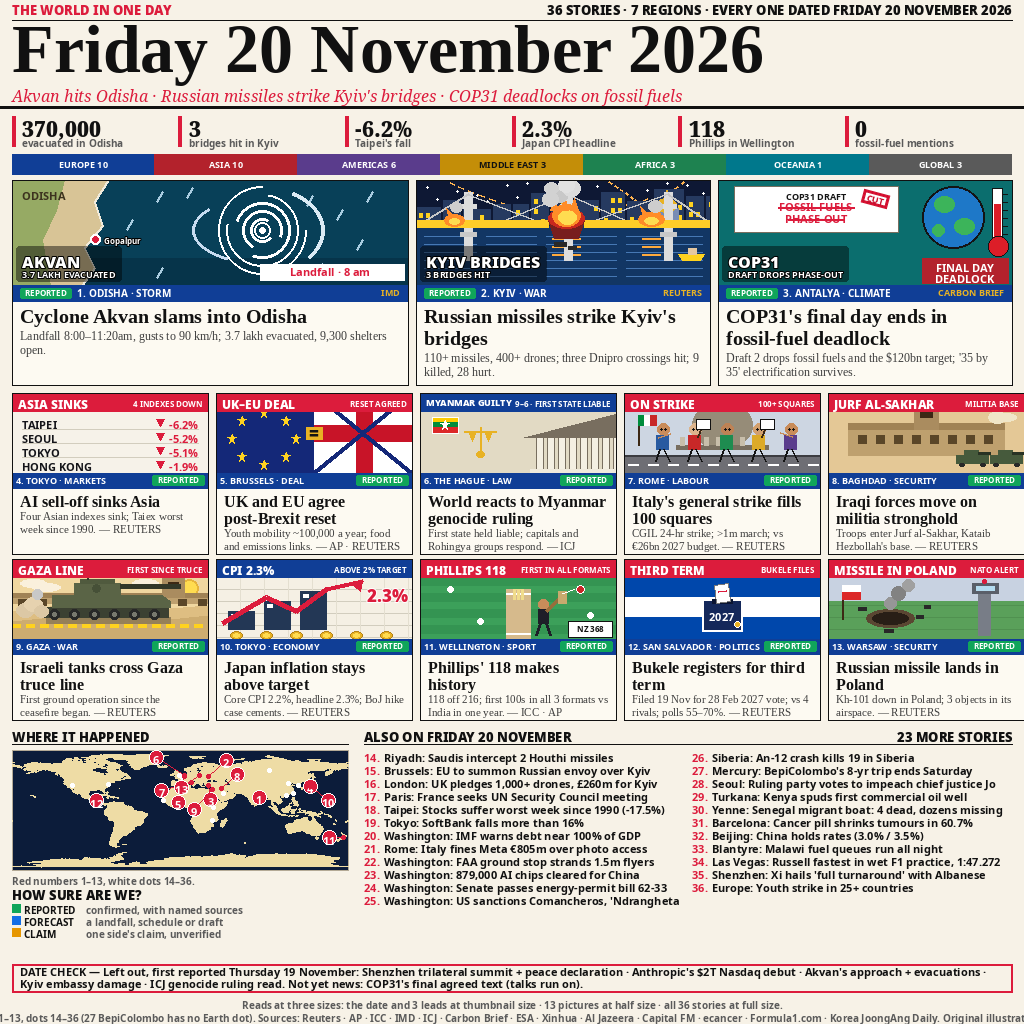
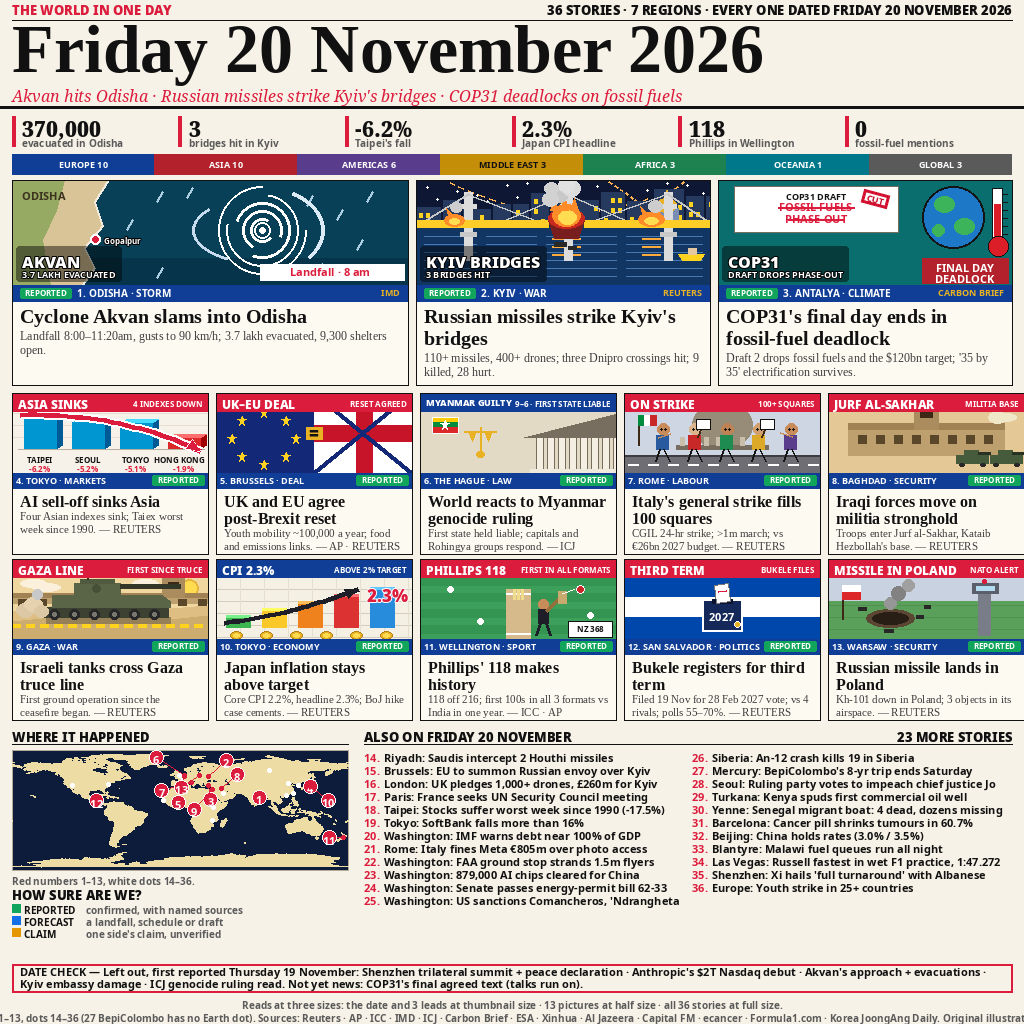
v5.1: 3D falling bars + curved arrow; rainbow rising bars + curved arrow

Changed region(s): [[0.0, 0.4062, 0.2188, 0.4688], [0.2188, 0.5625, 0.4062, 0.625]]

diff --git a/draw.py b/draw.py
@@ -591,27 +591,56 @@ def art_image(key, w, h):
                       fill=GOLD)
         d.ellipse([56, 58, 64, 64], fill=GOLD)
     elif key == "selloff":
-        # v5: the 4-index table the top entries use — Friday closes, all
-        # down, with a red down-triangle before each value. The old five
-        # navy bars + red zigzag (v3.5, per the user's image 2) are gone;
-        # the deck carries the "worst week since 1990" line. Art is 196x80
-        # with the solid banner over y0-18, so rows start at y24.
-        # Original PIL vector code.
+        # v5.1: per the user's new reference (3D blue bars + one thick
+        # red curved arrow swooping down) — the v5 4-row index table is
+        # gone. Same verified Friday data: Taipei -6.2, Seoul -5.2,
+        # Tokyo -5.1, Hong Kong -1.9 (tallest to shortest, last bar red).
+        # Art is 196x80 with the solid banner over y0-18; bars sit on
+        # baseline y56, names + values in two lines below. The arrow is
+        # drawn over the bars with a white halo so it reads on the blue
+        # and on the red last bar; its head ends just under the baseline,
+        # clear of the labels. Original PIL vector code.
         d.rectangle([0, 0, w, h], fill=(246, 242, 233))
-        rows = (("TAIPEI", "-6.2%"), ("SEOUL", "-5.2%"),
-                ("TOKYO", "-5.1%"), ("HONG KONG", "-1.9%"))
-        for i, (name, val) in enumerate(rows):
-            ry = 24 + i * 14
-            d.text((10, ry), name, font=F_ART2_S, fill=(20, 20, 25))
-            vw = d.textlength(val, font=F_ART2_S)
-            # red down-triangle just left of the value
-            tx = w - 10 - vw - 12
-            d.polygon([(tx, ry + 2), (tx + 8, ry + 2), (tx + 4, ry + 9)],
-                      fill=RED)
-            d.text((w - 10, ry), val, font=F_ART2_S, fill=RED, anchor="ra")
-            if i < 3:
-                d.line([10, ry + 12, w - 10, ry + 12],
-                       fill=(210, 205, 190), width=1)
+        for gy in range(20, 56, 12):
+            d.line([0, gy, w, gy], fill=(228, 223, 208), width=1)
+        base = 56
+        bars = (("TAIPEI", "-6.2%", 32, (0, 150, 210)),
+                ("SEOUL", "-5.2%", 27, (0, 150, 210)),
+                ("TOKYO", "-5.1%", 26, (0, 150, 210)),
+                ("HONG KONG", "-1.9%", 11, (220, 40, 40)))
+        # 3D look: lighter top face + darker right side face per bar
+        for i, (name, val, bh, col) in enumerate(bars):
+            bx = 12 + i * 48
+            top = base - bh
+            light = tuple(min(255, c + 70) for c in col)
+            dark = tuple(max(0, c - 60) for c in col)
+            d.polygon([(bx + 32, top), (bx + 38, top - 4), (bx + 38, base - 4),
+                       (bx + 32, base)], fill=dark)
+            d.polygon([(bx, top), (bx + 6, top - 4), (bx + 38, top - 4),
+                       (bx + 32, top)], fill=light)
+            d.rectangle([bx, top, bx + 32, base], fill=col)
+        d.line([6, base, w - 4, base], fill=(180, 175, 160), width=1)
+        # one thick red curved arrow swooping down from top-left to an
+        # arrowhead at the bottom-right (tip 188,58)
+        pts = []
+        for ti in range(26):
+            t = ti / 25
+            qx = int((1 - t) ** 2 * 8 + 2 * (1 - t) * t * 110 + t ** 2 * 188)
+            qy = int((1 - t) ** 2 * 22 + 2 * (1 - t) * t * 20 + t ** 2 * 58)
+            pts.append((qx, qy))
+        d.line(pts, fill="white", width=9, joint="curve")
+        d.line(pts, fill=RED, width=5, joint="curve")
+        d.polygon([(189, 59), (173, 55), (180, 46)], fill="white")
+        d.polygon([(188, 58), (174, 55), (180, 47)], fill=RED)
+        # names + values in two lines under the bars; the last name is
+        # clamped so it clears the right edge ("HONG KONG" is 51px wide)
+        for i, (name, val, bh, col) in enumerate(bars):
+            cx = 12 + i * 48 + 16
+            nw = d.textlength(name, font=F_LBL2_S)
+            cx = min(cx, 192 - nw / 2)
+            d.text((cx, 61), name, font=F_LBL2_S, fill=INK, anchor="ma")
+            d.text((12 + i * 48 + 16, 70), val, font=F_LBL2_S, fill=RED,
+                   anchor="ma")
     elif key == "ukeu":
         # two flags, one deal: EU stars on the left, the Union Jack's cross
         # on the right, a gold link between them. v4: BIGGER flags — wider
@@ -743,25 +772,36 @@ def art_image(key, w, h):
         d.ellipse([22, 46, 36, 58], fill=(220, 200, 165))
         d.ellipse([20, 30, 30, 40], fill=(200, 200, 200))
     elif key == "cpi":
-        # v5: Japan CPI — three ascending navy bars (2.1 / 2.2 / 2.3) on a
-        # light grid, a thick red zigzag arrow rising to the top-right, a
-        # red 2.3% focal, gold coins along the bottom. The old "crash"
-        # branch (desert An-12 wreck) is gone — the crash is also-list 26.
+        # v5.1: per the user's new reference (5 ascending rainbow bars +
+        # one thick dark curved arrow rising) — the v5 navy bars + red
+        # zigzag are gone. Same verified CPI data (core 2.2%, headline
+        # 2.3%). Light card background kept (not the reference's black).
         # Original PIL vector code.
         d.rectangle([0, 0, w, h], fill=(245, 240, 228))
         for gy in range(18, h, 12):
             d.line([0, gy, w, gy], fill=(210, 205, 190), width=1)
         for gx in range(0, w, 24):
             d.line([gx, 18, gx, h], fill=(228, 223, 208), width=1)
-        # three navy bars, baseline y70 — banner covers y0-18
-        for bx, top in ((12, 52), (48, 42), (84, 32)):
-            d.rectangle([bx, top, bx + 26, 70], fill=(35, 55, 85))
-            d.rectangle([bx + 3, top + 3, bx + 8, top + 6], fill="white")
-        # thick red zigzag arrow rising to the top-right
-        d.line([(6, 64), (50, 38), (80, 52), (110, 30), (146, 22)],
-               fill=RED, width=5, joint="curve")
-        d.polygon([(146, 22), (134, 24), (144, 32)], fill=RED)
-        # red 2.3% focal, top-right, clear of the arrowhead (ends x146)
+        # five rainbow bars, ascending left to right, baseline y68
+        cols = ((60, 180, 80), (250, 200, 40), (240, 130, 30),
+                (220, 50, 50), (40, 140, 220))
+        for i, col in enumerate(cols):
+            bx = 10 + i * 36
+            top = 68 - (12 + i * 7)
+            d.rectangle([bx, top, bx + 24, 68], fill=col)
+            light = tuple(min(255, c + 60) for c in col)
+            d.rectangle([bx, top, bx + 24, top + 2], fill=light)
+        # one thick dark curved arrow rising from bottom-left to an
+        # arrowhead at top-right, clear of the 2.3% focal (starts x151)
+        pts = []
+        for ti in range(26):
+            t = ti / 25
+            qx = int((1 - t) ** 2 * 8 + 2 * (1 - t) * t * 70 + t ** 2 * 142)
+            qy = int((1 - t) ** 2 * 64 + 2 * (1 - t) * t * 58 + t ** 2 * 30)
+            pts.append((qx, qy))
+        d.line(pts, fill=(30, 30, 40), width=5, joint="curve")
+        d.polygon([(142, 30), (132, 39), (128, 30)], fill=(30, 30, 40))
+        # red 2.3% focal, top-right, clear of the arrowhead (ends x148)
         d.text((192, 24), "2.3%", font=F_ART2, fill=RED, anchor="ra",
                stroke_width=1, stroke_fill="white")
         # gold coins along the bottom
